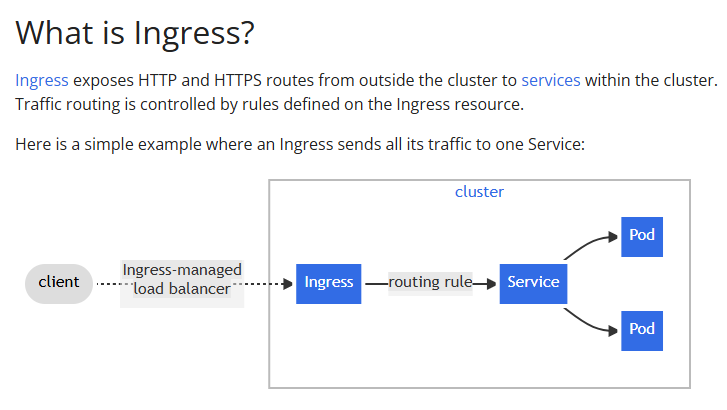
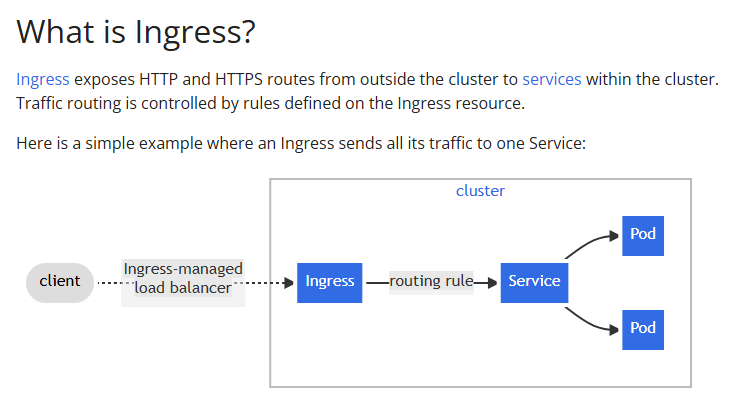
ingress

diff --git a/Readme.MD b/Readme.MD
@@ -148,4 +148,4 @@
      What is Ingress? 
      Ingress exposes HTTP and HTTPS routes from outside the cluster to services within the cluster. Traffic routing is controlled by rules defined on the Ingress resource.
      Here is a simple example where an Ingress sends all its traffic to one Service:
-    ![Alt text](image.png)
+     ![alt text](image.png)
